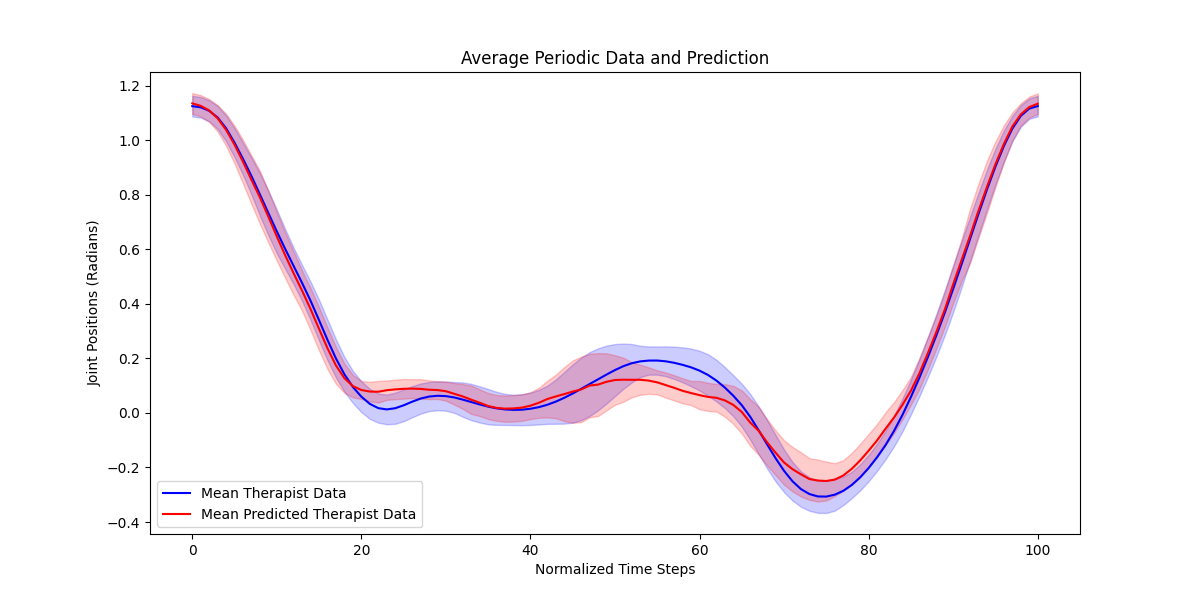
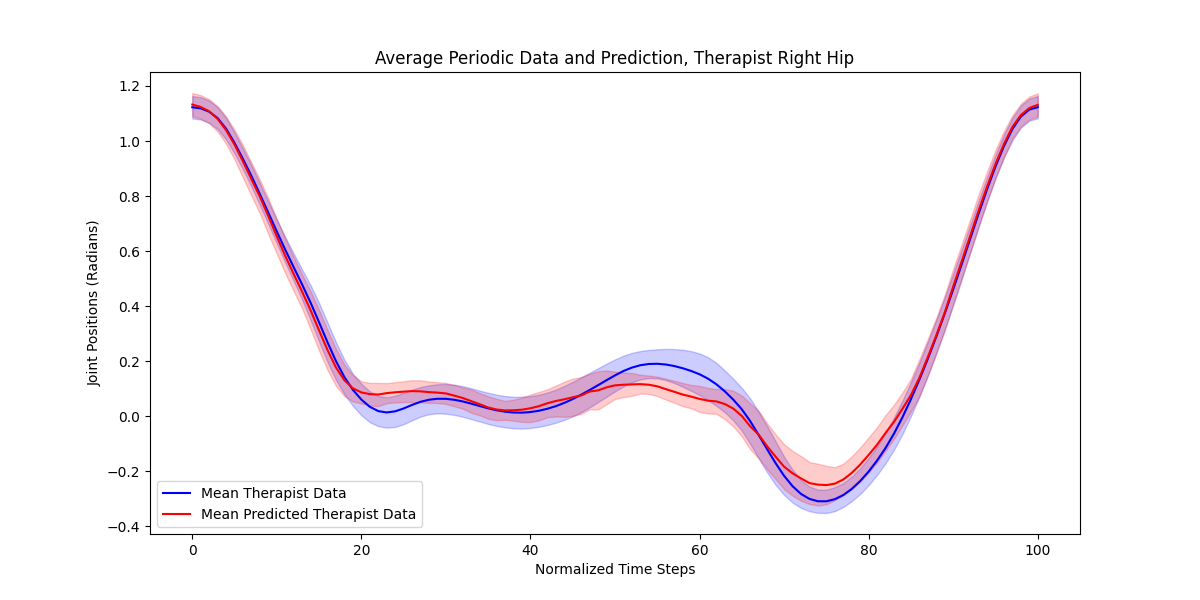
Updated trial5 j13 periodic plot

diff --git a/lstm_singleJoint/validation.py b/lstm_singleJoint/validation.py
@@ -46,7 +46,7 @@ class JointModel(nn.Module):
 
 # Load model
 model = JointModel()
-model.load_state_dict(torch.load('trial6/lstm_model_epoch70.pth'))
+model.load_state_dict(torch.load('trial5/j13/lstm_model_epoch144.pth'))
 model.eval()
 
 # Validation
@@ -92,16 +92,16 @@ with torch.no_grad():
     therapist_pred[lookback:lookback+len(valid_pred)] = valid_pred
 
 # Plot only validation portion
-plt.figure(figsize=(12, 6))
-plt.plot(therapist_true, c='b', label='True Therapist Data')
-# plt.plot(therapist_pred, c='r', linestyle='--', label='Predicted Therapist Data')
-# plt.plot(valid[:, 0], c='g', alpha=0.75, label='Patient Data (input)')
+# plt.figure(figsize=(12, 6))
+# plt.plot(therapist_true, c='b', label='True Therapist Data')
+# # plt.plot(therapist_pred, c='r', linestyle='--', label='Predicted Therapist Data')
+# # plt.plot(valid[:, 0], c='g', alpha=0.75, label='Patient Data (input)')
 # plt.xlim(0, 7500)
-plt.xlabel('Time Steps (~4ms)')
-plt.ylabel('Joint Positions (Radians)')
-plt.legend()
-plt.title("Validation: Therapist Hip Prediction from Patient Data")
-plt.show()
+# plt.xlabel('Time Steps (~4ms)')
+# plt.ylabel('Joint Positions (Radians)')
+# plt.legend()
+# plt.title("Validation: Therapist Hip Prediction from Patient Data")
+# plt.show()
 # plt.savefig('lstm_therapist_prediction.png', dpi=300, bbox_inches='tight')
 
 # # Plot error over time
@@ -164,7 +164,7 @@ plt.fill_between(range(normalized_length),
                  mean_pred + std_pred, 
                  color='r', alpha=0.2)
 plt.legend()
-plt.title("Average Periodic Data and Prediction")
+plt.title("Average Periodic Data and Prediction, Therapist Right Hip")
 plt.xlabel('Normalized Time Steps')
 plt.ylabel('Joint Positions (Radians)')
 plt.show()
